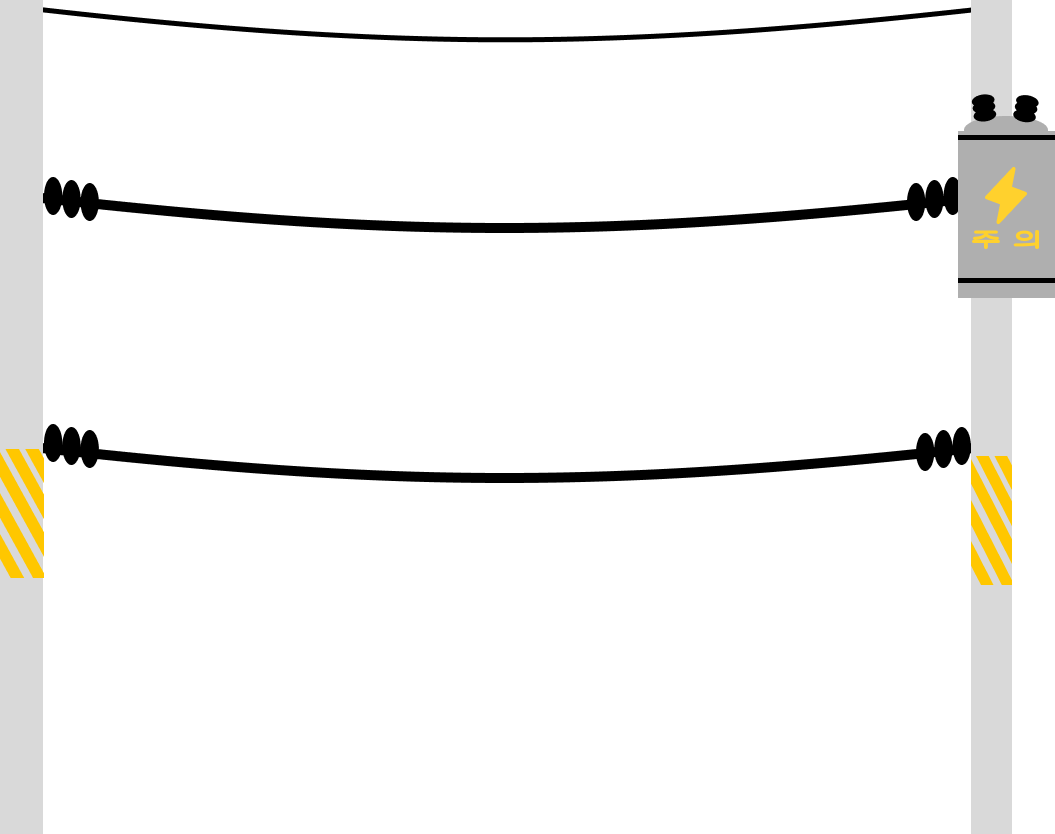
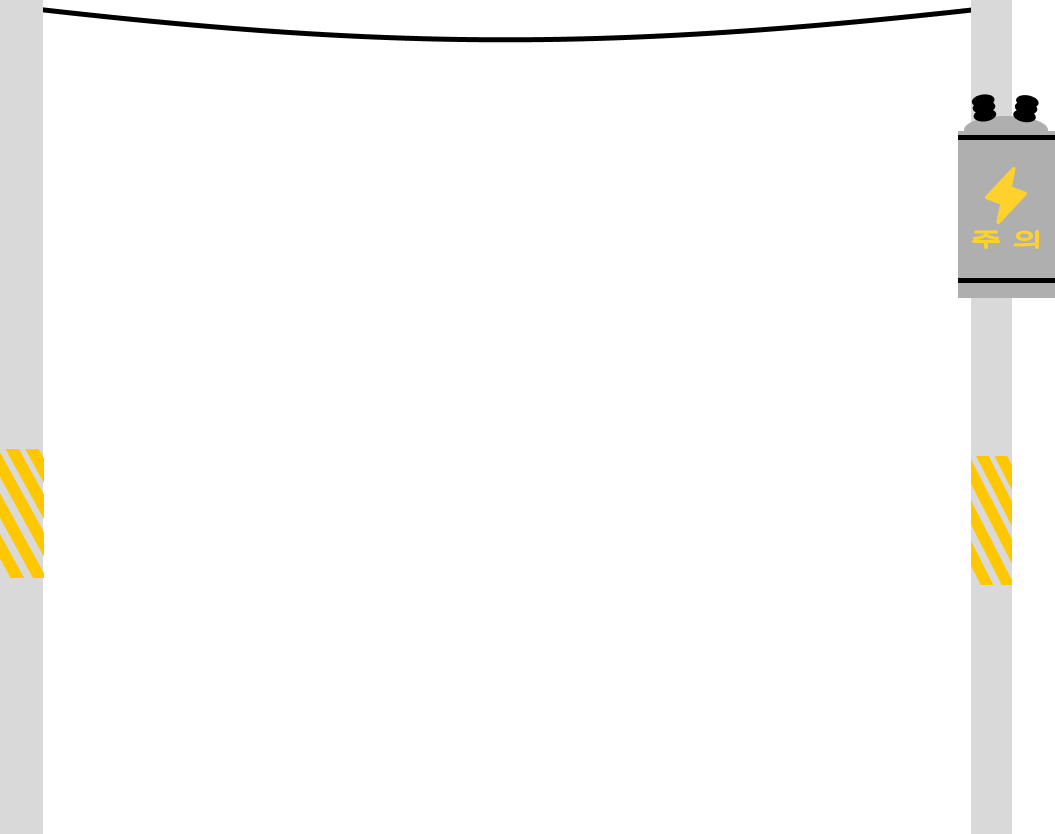
feat: dead check

Changed region(s): [[0.0303, 0.4988, 0.9403, 0.5923], [0.0303, 0.2182, 0.91, 0.2806]]

diff --git a/FrontEnd/src/components/game/GameWaitingAvatars.tsx b/FrontEnd/src/components/game/GameWaitingAvatars.tsx
@@ -5,16 +5,19 @@ import avatarshock from '@/assets/images/inGameElectricShock.png';
 import styles from '@/styles/game/GameWaitingAvatar.module.css';
 import { RoomInfo } from '@/types/game';
 import forbiddenFlag from '@/assets/images/forbiddenFlag.png';
+import { useRecoilValue } from 'recoil';
+import { gameState } from '@/recoil/atom';
 
 const GameWaitingAvatars = ({
-	roomStatus,
+  roomStatus,
   roomUsers,
   roomMaxCnt,
 }: {
-	roomStatus: RoomInfo['roomStatus'];
+  roomStatus: RoomInfo['roomStatus'];
   roomUsers: RoomInfo['roomUsers'];
   roomMaxCnt: RoomInfo['roomMaxCnt'];
 }) => {
+  const gameInfo = useRecoilValue(gameState);
   const calculatePosition = (index, maxCount) => {
     let position;
     let top = '14.5%';
@@ -54,35 +57,37 @@ const GameWaitingAvatars = ({
       {roomUsers.map((member, index) => {
         const position = calculatePosition(index, roomMaxCnt);
         return (
-					<div key={member.userId}>
-						<img
-							key={member.userId}
-							src={avatar}
-							alt="avatar"
-							className={styles.inGameAvatar}
-							style={{ top: position.top, left: position.left }}
-						/>
-						{roomStatus === 'start' && (
+          <div key={member.userId}>
+            <img
+              key={member.userId}
+              src={gameInfo.roomUsers.filter((it) => it.userId === member.userId)[0].isAlive ? avatar : avatardead}
+              alt="avatar"
+              className={styles.inGameAvatar}
+              style={{ top: position.top, left: position.left }}
+            />
+
+            {roomStatus === 'start' && (
               <>
-              <div>
-                <div className={styles.inGameAvatar}
+                <div>
+                  <div
+                    className={styles.inGameAvatar}
                     style={{
                       top: index % 2 === 0 ? `calc(${position.top} - 12%)` : `calc(${position.top} + 25%)`, // 조건에 따라 top 위치 조정
                       left: position.left,
                       position: 'absolute',
-                    }} >
-                    <div style={{display:'flex', justifyContent:'center', alignItems:'center', position: 'relative'}}>
+                    }}
+                  >
+                    <div
+                      style={{ display: 'flex', justifyContent: 'center', alignItems: 'center', position: 'relative' }}
+                    >
                       <div className={`FontM20 ${styles.wordCenter}`}>{member.word}</div>
-                      <img
-                        src={forbiddenFlag}
-                        alt="forbidden word"
-                      />
+                      <img src={forbiddenFlag} alt="forbidden word" />
                     </div>
+                  </div>
                 </div>
-              </div>
               </>
-							)}
-					</div>
+            )}
+          </div>
         );
       })}
     </div>

diff --git a/FrontEnd/src/components/game/GameWaitingChattingForm.tsx b/FrontEnd/src/components/game/GameWaitingChattingForm.tsx
@@ -1,5 +1,7 @@
+import { gameState, userState } from '@/recoil/atom';
 import styles from '@/styles/game/GameWaitingChattingForm.module.css';
 import { useState } from 'react';
+import { useRecoilValue, useSetRecoilState } from 'recoil';
 
 interface GameChattingFormProps {
   onSendMessage: (message: string) => void;
@@ -7,6 +9,10 @@ interface GameChattingFormProps {
 
 const GameChattingForm = ({ onSendMessage }: GameChattingFormProps) => {
   const [message, setMessage] = useState('');
+  const userInfo = useRecoilValue(userState);
+  const gameInfo = useRecoilValue(gameState);
+  const setGameInfo = useSetRecoilState(gameState);
+  const ingameUerInfo = gameInfo.roomUsers.filter((user) => user.userId === userInfo.userId)[0];
 
   const onChatHandler = (e: React.ChangeEvent<HTMLInputElement>) => {
     setMessage(e.target.value);
@@ -14,6 +20,32 @@ const GameChattingForm = ({ onSendMessage }: GameChattingFormProps) => {
 
   const submitHandler = (e: React.FormEvent) => {
     e.preventDefault();
+    if (gameInfo.roomStatus === 'start' && message.indexOf(ingameUerInfo.word!) !== -1) {
+      setGameInfo({
+        roomMode: gameInfo.roomMode,
+        roomId: gameInfo.roomId,
+        roomName: gameInfo.roomName,
+        roomStatus: gameInfo.roomStatus,
+        roomForbiddentime: gameInfo.roomForbiddentime,
+        roomEndtime: gameInfo.roomEndtime,
+        roomSubject: gameInfo.roomSubject,
+        roomMaxCnt: gameInfo.roomMaxCnt,
+        roomUsers: gameInfo.roomUsers.map((user) =>
+          user.userId === userInfo.userId
+            ? {
+                userId: ingameUerInfo.userId,
+                nickname: ingameUerInfo.nickname,
+                outfit: ingameUerInfo.outfit,
+                ready: ingameUerInfo.ready,
+                word: ingameUerInfo.word,
+                score: ingameUerInfo.score,
+                isAlive: false,
+              }
+            : user,
+        ),
+      });
+    }
+
     if (message.trim()) {
       onSendMessage(message); // 부모 컴포넌트의 메시지 전송 함수 호출
       setMessage('');
@@ -25,7 +57,6 @@ const GameChattingForm = ({ onSendMessage }: GameChattingFormProps) => {
       <form onSubmit={submitHandler}>
         <div className={styles.Mgb}>
           <input
-          
             className={`FontM20 ${styles.InputBox}`}
             id="text"
             type="text"

diff --git a/FrontEnd/src/components/game/GameWaiting.tsx b/FrontEnd/src/components/game/GameWaiting.tsx
@@ -46,20 +46,20 @@ const GameWaiting = () => {
       roomMode: 'normal',
       roomId: 1,
       roomName: '테스트 방',
-      roomStatus: 'waiting',
+      roomStatus: 'start',
       roomForbiddentime: null,
       roomEndtime: null,
       roomSubject: null,
       roomMaxCnt: 8,
       roomUsers: [
-        { userId: '1', nickname: '나야나방장', outfit: 'casual', ready: false, word: '하윙', score: 1, isAlive: true },
-        { userId: '2', nickname: '줴훈줴훈', outfit: 'sporty', ready: true, word: null, score: 2, isAlive: true },
-        { userId: '3', nickname: '헤엥', outfit: 'formal', ready: false, word: null, score: 3, isAlive: false },
-        { userId: '4', nickname: '웅냥냥', outfit: 'formal', ready: false, word: null, score: 1, isAlive: true },
-        { userId: '5', nickname: '홀롤로', outfit: 'formal', ready: false, word: '바보', score: 4, isAlive: false },
-        { userId: '6', nickname: '웅냐', outfit: 'formal', ready: false, word: '메롱', score: 67, isAlive: true },
-        { userId: '7', nickname: '헤위이잉', outfit: 'formal', ready: false, word: null, score: 1, isAlive: true },
-        { userId: '8', nickname: '인범머스크', outfit: 'formal', ready: false, word: null, score: 5, isAlive: true },
+        { userId: 9, nickname: '하하호호', outfit: 'casual', ready: false, word: '안녕', score: 1, isAlive: true },
+        { userId: 2, nickname: '줴훈줴훈', outfit: 'sporty', ready: true, word: '안녕', score: 2, isAlive: true },
+        { userId: 3, nickname: '헤엥', outfit: 'formal', ready: true, word: '안녕', score: 3, isAlive: false },
+        { userId: 4, nickname: '웅냥냥', outfit: 'formal', ready: true, word: '안녕', score: 1, isAlive: true },
+        { userId: 5, nickname: '홀롤로', outfit: 'formal', ready: true, word: '바보', score: 4, isAlive: false },
+        { userId: 6, nickname: '웅냐', outfit: 'formal', ready: true, word: '메롱', score: 67, isAlive: true },
+        { userId: 7, nickname: '헤위이잉', outfit: 'formal', ready: true, word: '안녕', score: 1, isAlive: true },
+        { userId: 8, nickname: '인범머스크', outfit: 'formal', ready: true, word: '안녕', score: 5, isAlive: true },
       ],
     };
     setRoomInfo(dummy2);

diff --git a/FrontEnd/src/components/game/GameWaitingChatting.tsx b/FrontEnd/src/components/game/GameWaitingChatting.tsx
@@ -3,23 +3,33 @@ import styles from '@/styles/game/GameWaitingChatting.module.css';
 import GameChattingForm from './GameWaitingChattingForm';
 import GameChattingList from './GameWaitingChattingList';
 import { ChatMessage } from '@/types/chat';
+import { useRecoilValue, useSetRecoilState } from 'recoil';
+import { userState } from '@/recoil/atom';
 
 const GameWaitingChatting: React.FC = () => {
   const [chatMessages, setChatMessages] = useState<ChatMessage[]>([]);
 
+  const userInfo = useRecoilValue(userState);
+
   const onSendMessage = (message: string) => {
-    const newMessage: ChatMessage = { content: message }; // ChatMessage 타입에 맞게 newMessage 생성
+    const newMessage: ChatMessage = {
+      content: message,
+      time: new Date().toISOString(),
+      nickname: userInfo.nickname, // userInfo에서 nickname을 가져와서 저장
+    };
+    console.log(new Date().toLocaleString());
+
     setChatMessages([...chatMessages, newMessage]); // 새 메시지를 chatMessages 배열에 추가
   };
 
   return (
     <>
-        <div className={styles.ChatBoxBorder}></div>
-        <div className={styles.ChatBox}>
-            <GameChattingList chatMessages={chatMessages}/>
-        </div>
-        <GameChattingForm onSendMessage={onSendMessage}/>
-        <div className={styles.ChatBuilding}></div>
+      <div className={styles.ChatBoxBorder}></div>
+      <div className={styles.ChatBox}>
+        <GameChattingList chatMessages={chatMessages} />
+      </div>
+      <GameChattingForm onSendMessage={onSendMessage} />
+      <div className={styles.ChatBuilding}></div>
     </>
   );
 };

diff --git a/FrontEnd/src/components/game/GameWaitingPole.tsx b/FrontEnd/src/components/game/GameWaitingPole.tsx
@@ -2,6 +2,8 @@ import { RoomInfo } from '@/types/game';
 import GameAvatars from '@/components/game/GameWaitingAvatars';
 import styles from '@/styles/game/GameWaiting.module.css';
 import electricpole from '@/assets/images/electricpole.png';
+import electricline from '@/assets/images/electricline.png';
+
 
 const GameWaitingPole = ({roomName, roomStatus, roomUsers, roomMaxCnt}: { roomName:RoomInfo["roomName"],roomStatus:RoomInfo["roomStatus"], roomUsers: RoomInfo["roomUsers"], roomMaxCnt: RoomInfo["roomMaxCnt"]}) => {
   return (
@@ -14,7 +16,12 @@ const GameWaitingPole = ({roomName, roomStatus, roomUsers, roomMaxCnt}: { roomNa
     <div className={styles.Avatars}>
       <GameAvatars roomStatus={roomStatus} roomUsers={roomUsers} roomMaxCnt={roomMaxCnt}/>
     </div>
+    <div className={styles.ElectricPole}>
+    <img className={styles.ElectricLine1} src={electricline} alt="GameTemplate" />
+    <img className={styles.ElectricLine2} src={electricline} alt="GameTemplate" />
+
       <img className={styles.ElectricPole} src={electricpole} alt="GameTemplate" />
+    </div>
     </>
   );
 };

diff --git a/FrontEnd/src/components/game/GameWaitingChattingList.tsx b/FrontEnd/src/components/game/GameWaitingChattingList.tsx
@@ -10,7 +10,7 @@ const GameChattingList: React.FC<GameChattingListProps> = ({ chatMessages }) => 
   const messagesEndRef = useRef<null | HTMLDivElement>(null);
 
   const scrollToBottom = () => {
-    messagesEndRef.current?.scrollIntoView({ behavior: "smooth" });
+    messagesEndRef.current?.scrollIntoView({ behavior: 'smooth' });
   };
 
   useEffect(() => {
@@ -20,7 +20,9 @@ const GameChattingList: React.FC<GameChattingListProps> = ({ chatMessages }) => 
   return (
     <div className={`FontD16 ${styles.ChatList}`}>
       {chatMessages.map((message, index) => (
-        <div key={index}>{message.content}</div>
+        <div key={index}>
+          <strong>{message.nickname}: </strong> {message.content}
+        </div>
       ))}
       <div ref={messagesEndRef} />
     </div>

diff --git a/FrontEnd/src/types/game.ts b/FrontEnd/src/types/game.ts
@@ -1,14 +1,13 @@
-import { IngameUser } from "./user";
+import { IngameUser } from './user';
 
 export interface RoomInfo {
-  roomMode:'rank' | 'normal'
-    roomId: number;
-    roomName: string;
-    roomStatus: 'waiting' | 'allready' | 'wordsetting' | 'wordokay' | 'start' | 'end';
-    roomForbiddentime: null|string;
-    roomEndtime: null|string;
-    roomSubject: null|string;
-    roomMaxCnt: number;
-    roomUsers: IngameUser[];
-  }
-  
+  roomMode: 'rank' | 'normal';
+  roomId: number;
+  roomName: string;
+  roomStatus: 'waiting' | 'allready' | 'wordsetting' | 'wordokay' | 'start' | 'end';
+  roomForbiddentime: null | string;
+  roomEndtime: null | string;
+  roomSubject: null | string;
+  roomMaxCnt: number;
+  roomUsers: IngameUser[];
+}

diff --git a/FrontEnd/src/components/game/GameWaitingReadyButton.tsx b/FrontEnd/src/components/game/GameWaitingReadyButton.tsx
@@ -16,7 +16,8 @@ const GameWaitingReadyButton = ({roomUsers, blink, onStartGame}: { roomUsers: Ro
   };
   
   // 방장인 경우 반짝이도록 수정
-  const isFirstMember = roomUsers.findIndex(member => member.userId === '1') === 0;
+  // const isFirstMember = roomUsers.findIndex(member => member.userId === '1') === 0;
+  const isFirstMember = roomUsers[0];
   const buttonContent = isFirstMember ? '게임시작' : (isReady ? '준비 취소' : '준비');
 
   let buttonStyle = `FontM32 ${styles.Btn} ${isFirstMember && blink ? styles.Blink : ''}`;

diff --git a/FrontEnd/src/styles/game/GameWaitingAvatar.module.css b/FrontEnd/src/styles/game/GameWaitingAvatar.module.css
@@ -1,15 +1,16 @@
 .inGameAvatar {
     position: absolute;
-    width: 16%; 
+    width: 15.9%; 
 }
 
 .inGameAvatars {
     position: relative;
-    width: 750px;
-    height: 450px;
+    width: 50vw;
+    height: 60vh;
 }
 
 .wordCenter {
     color: red;
     position: absolute;
 }
+

diff --git a/FrontEnd/src/styles/game/GameWaiting.module.css b/FrontEnd/src/styles/game/GameWaiting.module.css
@@ -35,6 +35,21 @@
 .ElectricPole {
   height: 100vh;
   width: auto;
+  
+}
+
+.ElectricLine1 {
+  position: absolute;
+  height: 6.95vh;
+  top: 21%;
+  z-index: -50;
+}
+
+.ElectricLine2 {
+  position: absolute;
+  height: 6.95vh;
+  top: 50%;
+  z-index: -50;
 }
 
 .Box {

diff --git a/FrontEnd/src/types/user.ts b/FrontEnd/src/types/user.ts
@@ -24,7 +24,7 @@ export interface RankingUser {
 }
 
 export interface IngameUser {
-  userId: string;
+  userId: number;
   nickname: string;
   outfit: string;
   ready: boolean;

diff --git a/FrontEnd/src/types/chat.ts b/FrontEnd/src/types/chat.ts
@@ -1,6 +1,7 @@
 export interface ChatMessage {
-    sender: string;
+    nickname: string;
     content: string;
+    time: string;
   }
   
 export  interface ScoreUpdate {
